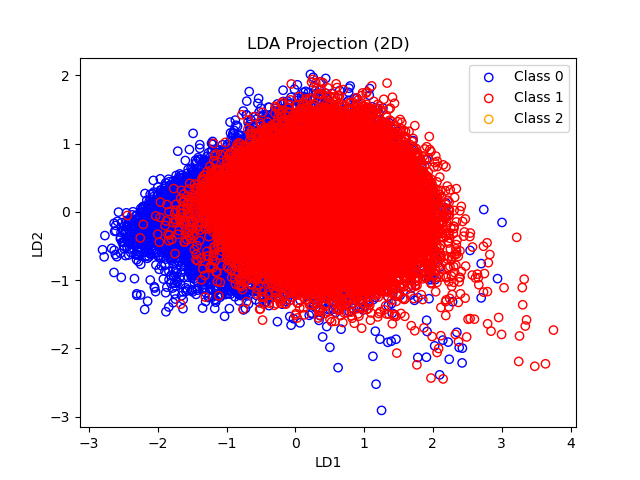
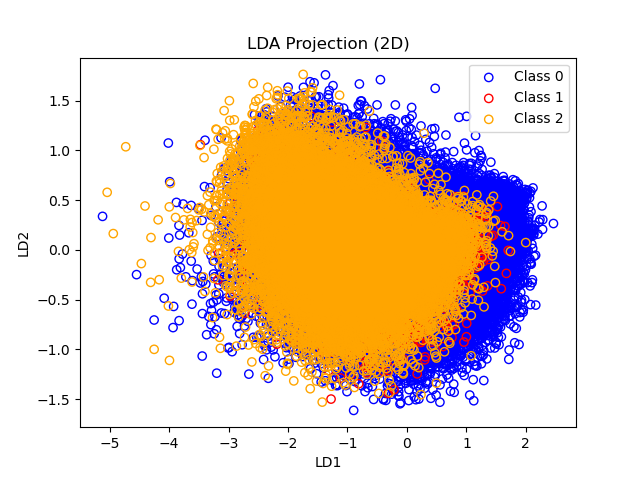
using rf with lda dimensionality reduction has pretty high accuracy with 012 example, maybe we could try something to where we make to separate predictor between 0 and 1 and between 0 and 2 since that might show how 1 is lot more predictable based on lifestyle.

diff --git a/Finding_Important_Features.py b/Finding_Important_Features.py
@@ -3,7 +3,7 @@ from sklearn.ensemble import RandomForestClassifier
 import matplotlib.pyplot as plt
 from sklearn.model_selection import train_test_split
 
-data = pd.read_csv("data/diabetes_binary_5050split_health_indicators_BRFSS2015.csv")
+data = pd.read_csv("data/diabetes_012_health_indicators_BRFSS2015.csv")
 
 X = data.iloc[:, 1:]
 y = data.iloc[:, 0]

diff --git a/LDA_RF.py b/LDA_RF.py
@@ -5,7 +5,7 @@ from sklearn.ensemble import RandomForestClassifier
 from sklearn.metrics import accuracy_score
 
 # Loading the dataset
-data = pd.read_csv("data/diabetes_binary_5050split_health_indicators_BRFSS2015.csv")
+data = pd.read_csv("data/diabetes_012_health_indicators_BRFSS2015.csv")
 
 
 X = data.iloc[:, 1:].values

diff --git a/LDA.py b/LDA.py
@@ -3,7 +3,7 @@ import numpy as np
 import matplotlib.pyplot as plt
 
 # Loading the dataset
-data = pd.read_csv("data/diabetes_binary_5050split_health_indicators_BRFSS2015.csv")
+data = pd.read_csv("data/diabetes_012_health_indicators_BRFSS2015.csv")
 
 
 # Separate features and labels
